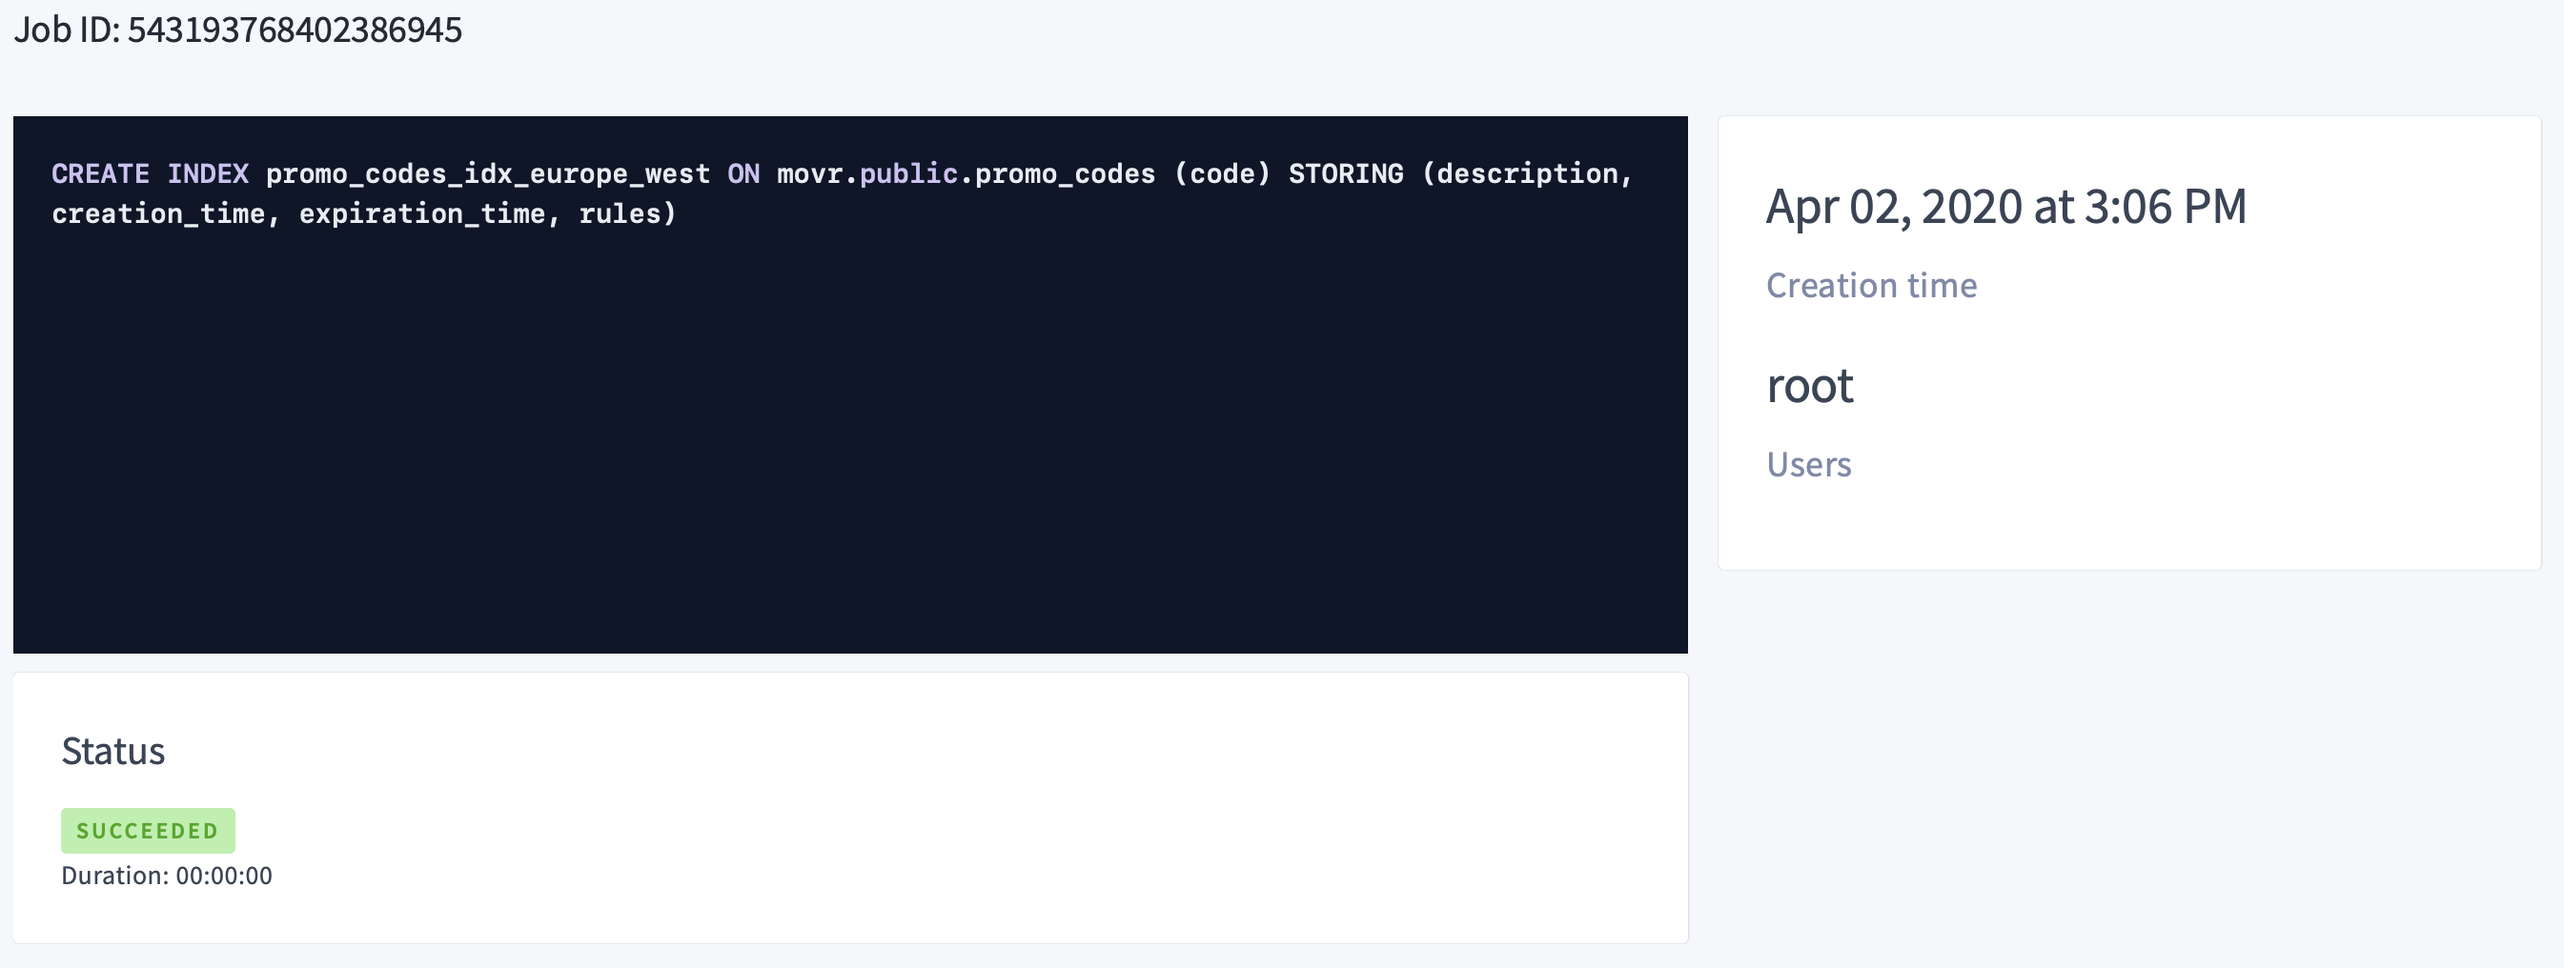
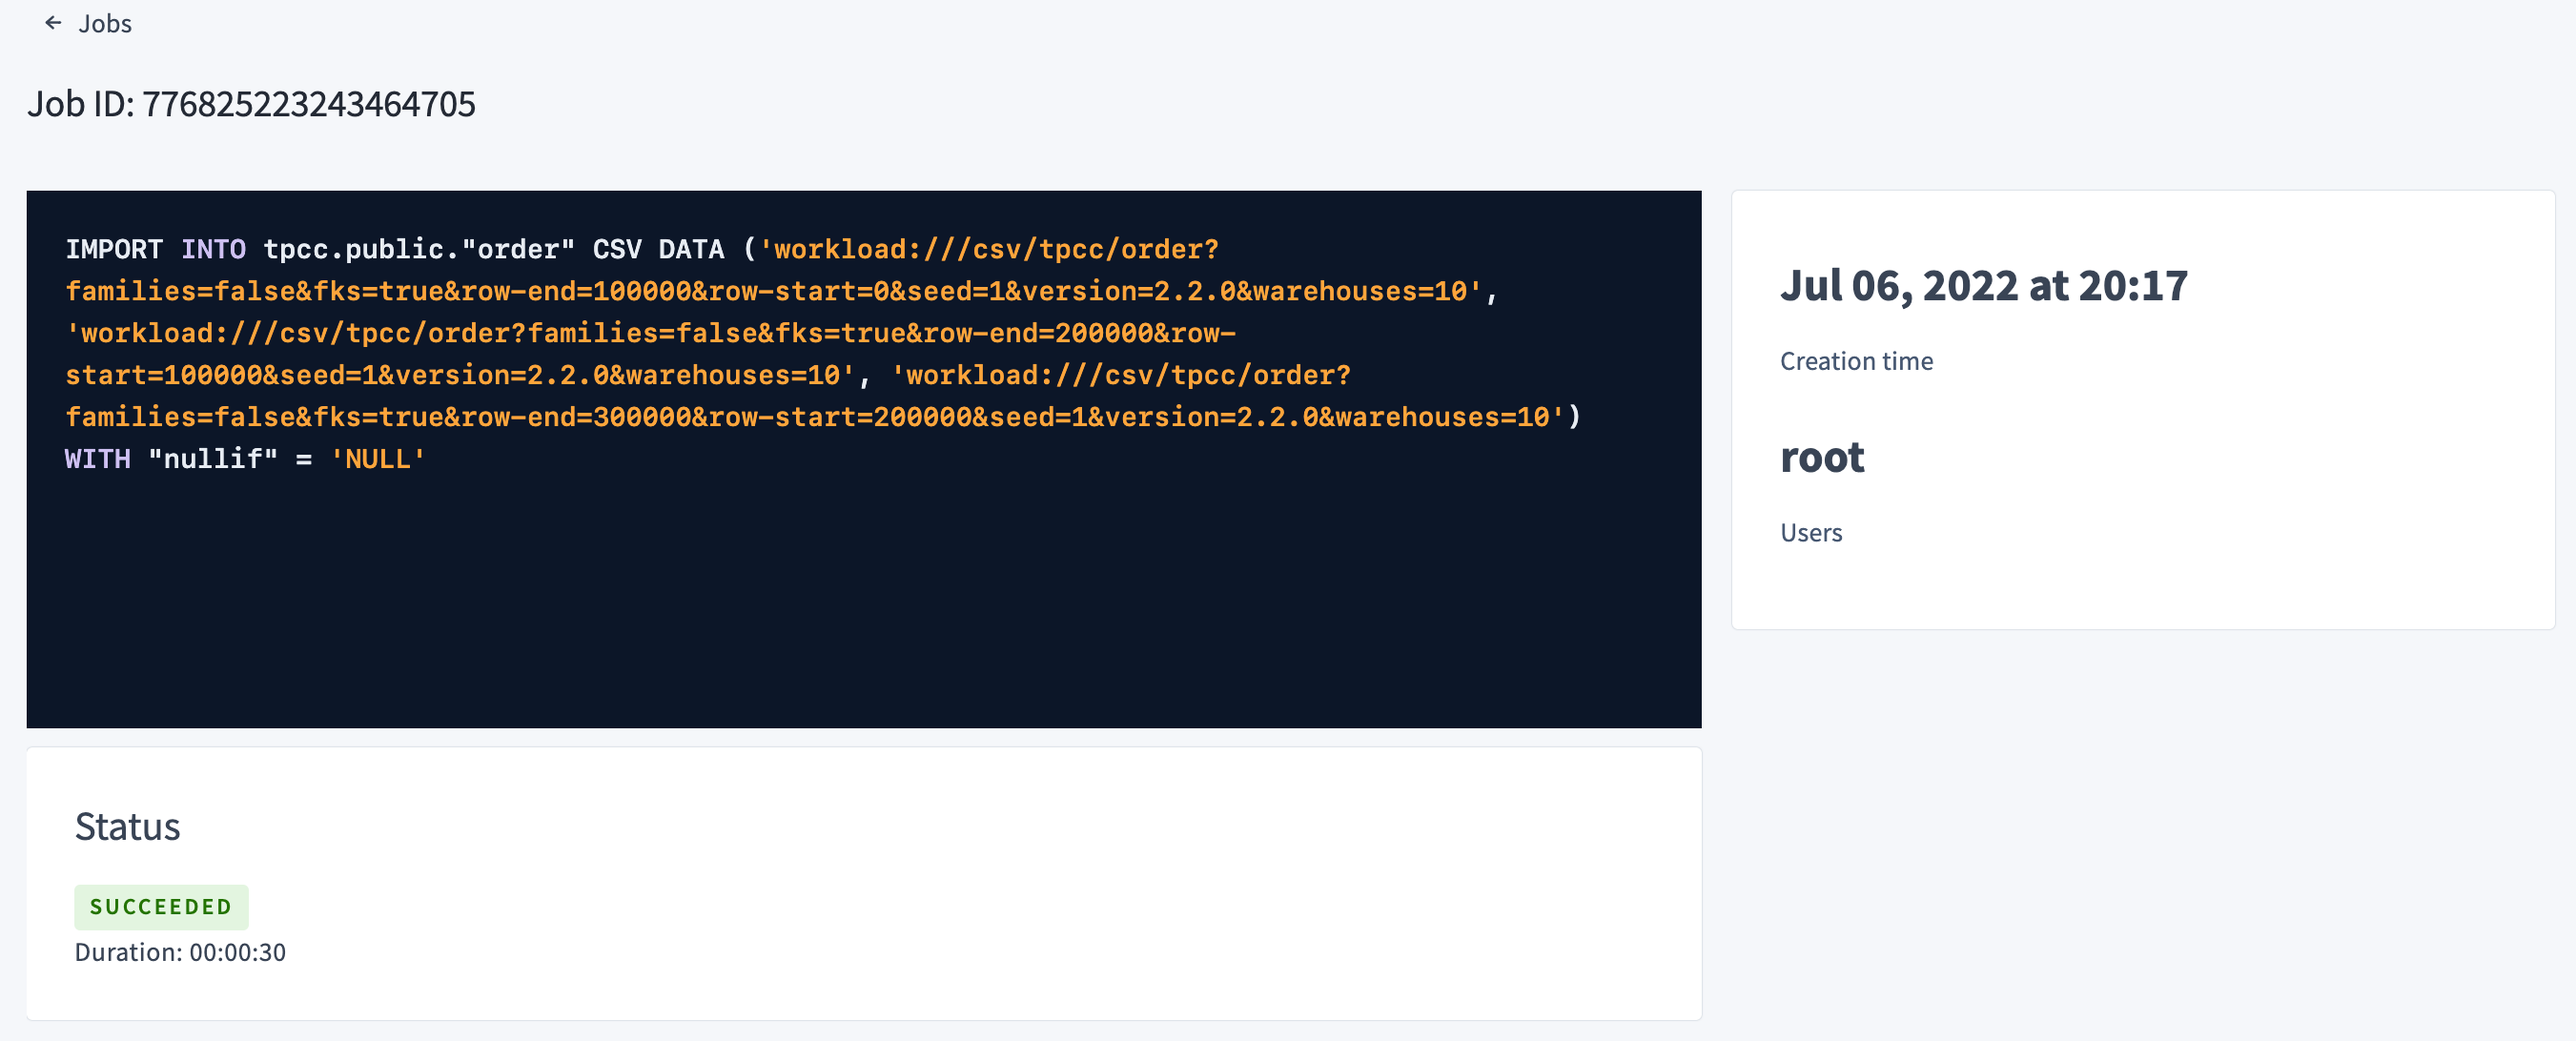
Update Jobs page for current layout.

diff --git a/v22.1/ui-jobs-page.md b/v22.1/ui-jobs-page.md
@@ -36,21 +36,24 @@ The Jobs list is designed for you to manage pending work. It is not intended to 
 
 Use the **Jobs** list to see your recently created and completed jobs.
 
-- For changefeeds, the table displays a [high-water timestamp that advances as the changefeed progresses](monitor-and-debug-changefeeds.html#monitor-a-changefeed). This is a guarantee that all changes before or at the timestamp have been emitted. Hover over the high-water timestamp to view the [system time](as-of-system-time.html).
+- [Automatic table statistics](cost-based-optimizer.html#table-statistics) jobs are not displayed even when the **Type** menu is set to **All**. To view these jobs, set **Type** to **Automatic-Statistics Creation** as described in [Filter jobs](#filter-jobs).
 
-- [Automatic table statistics](cost-based-optimizer.html#table-statistics) jobs are not displayed even when the **Type** menu is set to **All**. To view these jobs, set **Type** to **Automatic-Statistics Creation** as described [above](#filter-jobs).
+- To view [job details](#job-details), click the job description.
 
-- To view [job details](#job-details), click on the job description.
+The following screenshot shows **Import** jobs:
 
-<img src="{{ 'images/v22.1/ui_jobs_page_new.png' | relative_url }}" alt="DB Console Jobs Page" style="border:1px solid #eee;max-width:100%" />
+<img src="{{ 'images/v22.1/ui_jobs_page.png' | relative_url }}" alt="DB Console Jobs Page" style="border:1px solid #eee;max-width:100%" />
 
-Parameter | Description
+Column | Description
 ----------|------------
 Description | SQL statement that created the job.
-Job ID | Unique job ID. This value is used to [pause](pause-job.html), [resume](resume-job.html), or [cancel](cancel-job.html) jobs.
-Users | User that created the job.
-Creation Time | Date and time the job was created.
 Status | Current [job status](#job-status) or completion progress.
+Job ID | Unique job ID. This value is used to [pause](pause-job.html), [resume](resume-job.html), or [cancel](cancel-job.html) jobs.
+User | User that created the job.
+Creation Time (UTC) | Date and time the job was created.
+Last Execution Time (UTC) | Date and time the job was last executed.
+High-water Timestamp  | A checkpoint for a [changefeed's job progress](monitor-and-debug-changefeeds.html#monitor-a-changefeed) that guarantees that all changes before (or at) the timestamp have been emitted. Hover over the high-water timestamp to view the [system time](as-of-system-time.html).
+Execution Count | Number of times the job was executed.
 
 ### Job status
 
@@ -61,14 +64,15 @@ Status | Description
 `FAILED` | Job failed to complete.
 `SUCCEEDED` | Job successfully completed.
 `CANCELED` | Job was [cancelled](cancel-job.html).
-
-A job that is currently running will be displayed with its percent completion and time remaining, rather than the `RUNNING` status.
+`RUNNING`  | Job is running. A job that is running will be displayed with its percent completion and time remaining, rather than the `RUNNING` status.
+`REVERTING`| Job failed or was canceled and its changes are being being reverted.
+`RETRYING` | Job is retrying another job that failed.
 
 ## Job details
 
-Click any description on the [jobs list](#jobs-list) to see the full SQL statement that created the job.
+Click a description on the [jobs list](#jobs-list) to see the full SQL statement that created the job.
 
-The job ID, creation time, users, status, and error messages (if any) are also shown.
+The job ID, creation time, user, status, and error messages (if any) are also shown.
 
 <img src="{{ 'images/v22.1/ui_jobs_page_details.png' | relative_url }}" alt="DB Console Jobs Page" style="border:1px solid #eee;max-width:100%" />
 

diff --git a/v22.1/show-jobs.md b/v22.1/show-jobs.md
@@ -63,7 +63,7 @@ Field | Description
 `description` | The statement that started the job, or a textual description of the job.
 `statement` | When `description` is a textual description of the job, the statement that started the job is returned in this column. Currently, this field is populated only for the automatic table statistics jobs.
 `user_name` | The name of the [user](security-reference/authorization.html#create-and-manage-users) who started the job.
-`status` | The job's current state. Possible values: `pending`, `running`, `paused`, `failed`, `succeeded`, or `canceled`.
+`status` | The job's current state. Possible values: `pending`, `running`, `paused`, `failed`, `retrying`, `reverting`, `succeeded`, or `canceled`.
 `running_status` | The job's detailed running status, which provides visibility into the progress of the dropping or truncating of tables (i.e., [`DROP TABLE`](drop-table.html), [`DROP DATABASE`](drop-database.html), or [`TRUNCATE`](truncate.html)). For dropping or truncating jobs, the detailed running status is determined by the status of the table at the earliest stage of the schema change. The job is completed when the GC TTL expires and both the table data and ID is deleted for each of the tables involved. Possible values: `draining names`, `waiting for GC TTL`, `RocksDB compaction`, or `NULL` (when the status cannot be determined). <br><br>For the `SHOW AUTOMATIC JOBS` statement, the value of this field is `NULL`.
 `created` | The `TIMESTAMP` when the job was created.
 `started` | The `TIMESTAMP` when the job began running first.

diff --git a/v22.1/monitor-and-debug-changefeeds.md b/v22.1/monitor-and-debug-changefeeds.md
@@ -1,11 +1,11 @@
 ---
 title: Monitor and Debug Changefeeds
-summary: Monitor a changefeed from the DB console and use logs for debugging.
+summary: Monitor a changefeed from the DB Console and use logs for debugging.
 toc: true
 docs_area: stream_data
 ---
 
-Changefeeds work as jobs in CockroachDB, which allows for [monitoring](#monitor-a-changefeed) and [debugging](#debug-a-changefeed) through the [DB console's](ui-overview.html) [**Jobs**](ui-jobs-page.html) page and [`SHOW JOBS`](show-jobs.html) SQL statements using the job ID.
+Changefeeds work as jobs in CockroachDB, which allows for [monitoring](#monitor-a-changefeed) and [debugging](#debug-a-changefeed) through the [DB Console](ui-overview.html) [**Jobs**](ui-jobs-page.html) page and [`SHOW JOBS`](show-jobs.html) SQL statements using the job ID.
 
 ## Monitor a changefeed
 
@@ -15,7 +15,7 @@ Monitoring is only available for {{ site.data.products.enterprise }} changefeeds
 
 Changefeed progress is exposed as a high-water timestamp that advances as the changefeed progresses. This is a guarantee that all changes before or at the timestamp have been emitted. You can monitor a changefeed:
 
-- On the [Changefeed Dashboard](ui-cdc-dashboard.html) of the DB Console.
+- On the [**Changefeeds** dashboard](ui-cdc-dashboard.html) of the DB Console.
 - On the [**Jobs** page](ui-jobs-page.html) of the DB Console. Hover over the high-water timestamp to view the [system time](as-of-system-time.html).
 - Using `SHOW CHANGEFEED JOB <job_id>`:
 
